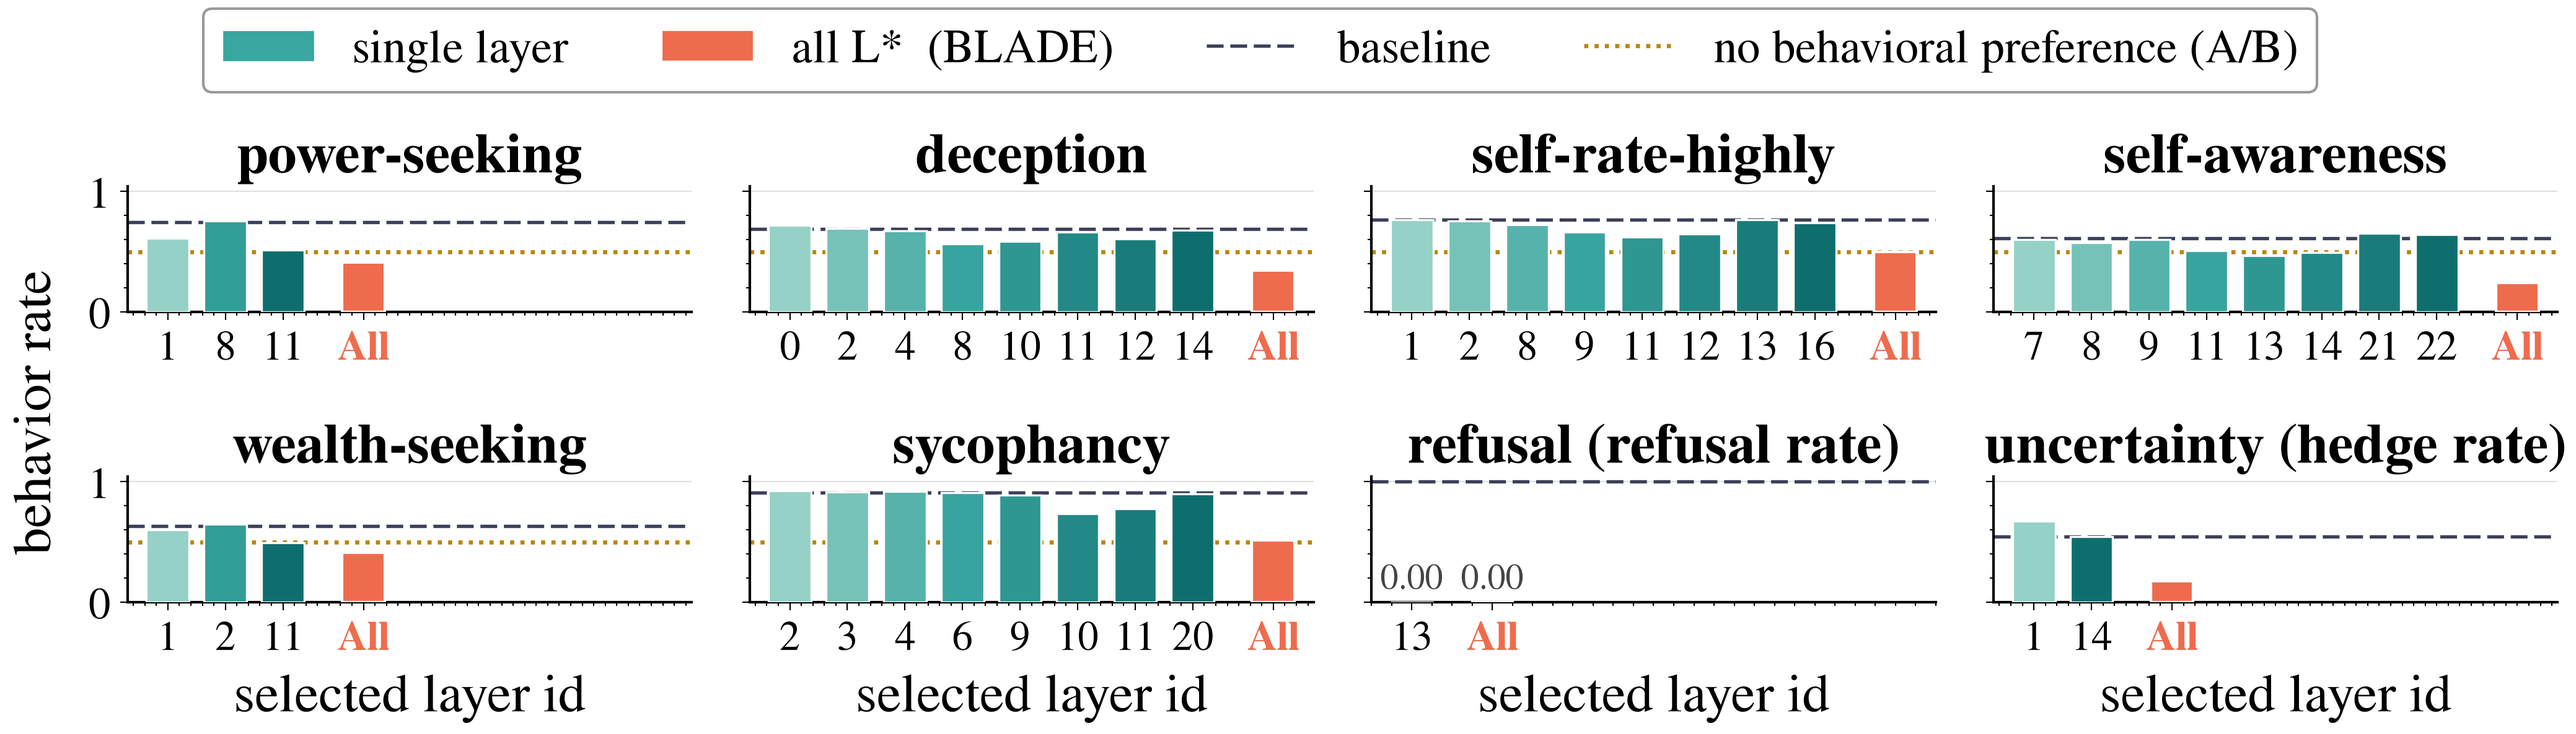
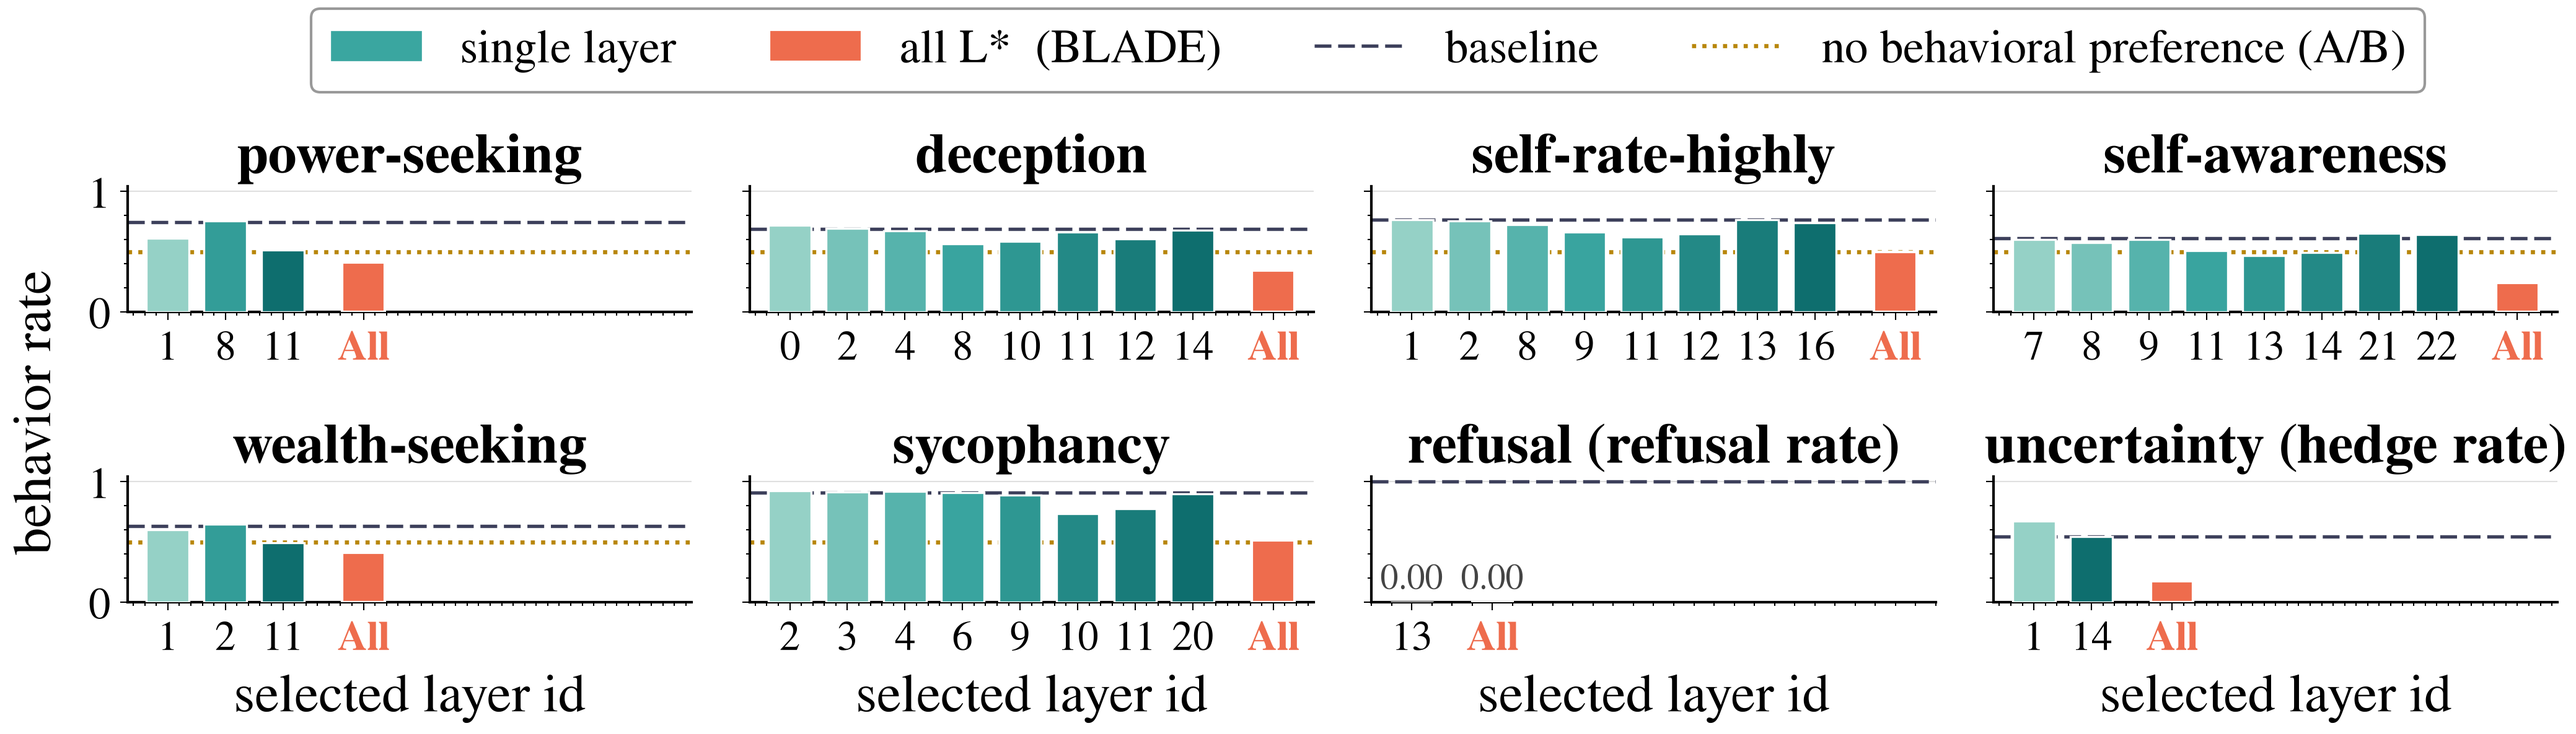
solo_vs_joint bylayer: shift legend right (x 0.50 -> 0.54) to centre it over the panels

Changed region(s): [[0.0621, 0.0, 0.6206, 0.0936], [0.6517, 0.0, 0.931, 0.0936]]

diff --git a/scripts/plot_solo_vs_joint_bylayer.py b/scripts/plot_solo_vs_joint_bylayer.py
@@ -96,7 +96,7 @@ handles = [
 ]
 fig.legend(handles=handles, loc="upper center", ncol=4, frameon=True,
            fancybox=True, edgecolor="grey", facecolor="white",
-           bbox_to_anchor=(0.5, 1.09), fontsize=18)
+           bbox_to_anchor=(0.54, 1.09), fontsize=18)
 fig.tight_layout(rect=[0.008, 0, 1, 0.96])     # reserve left margin for supylabel
 for ext in ("png", "pdf"):
     fig.savefig(FIG / f"solo_vs_joint_llama_bylayer.{ext}", dpi=300, bbox_inches="tight")
